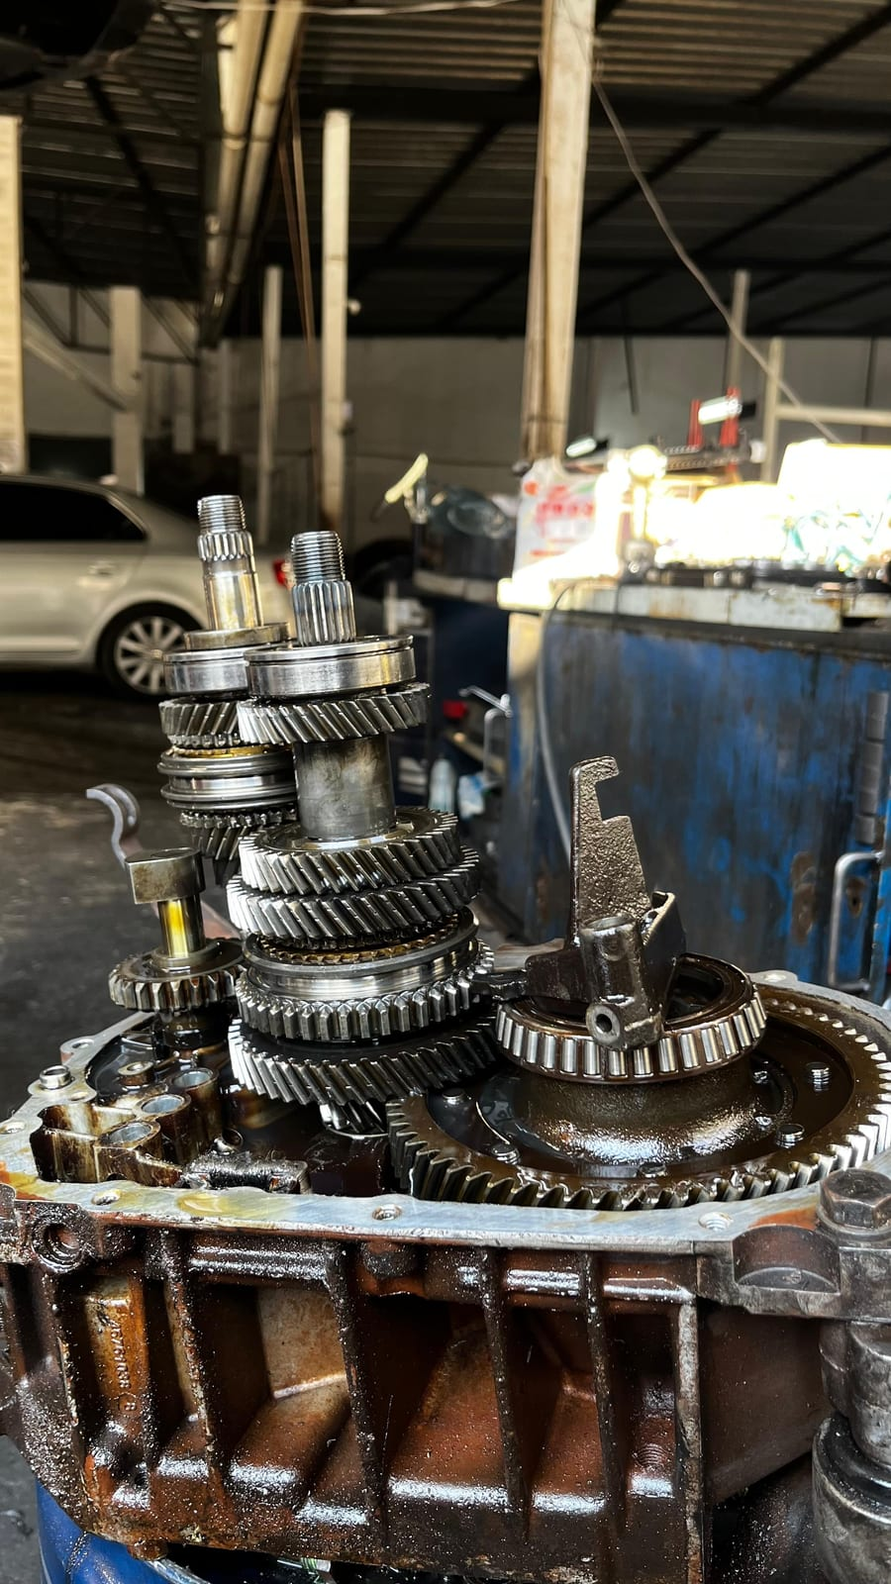
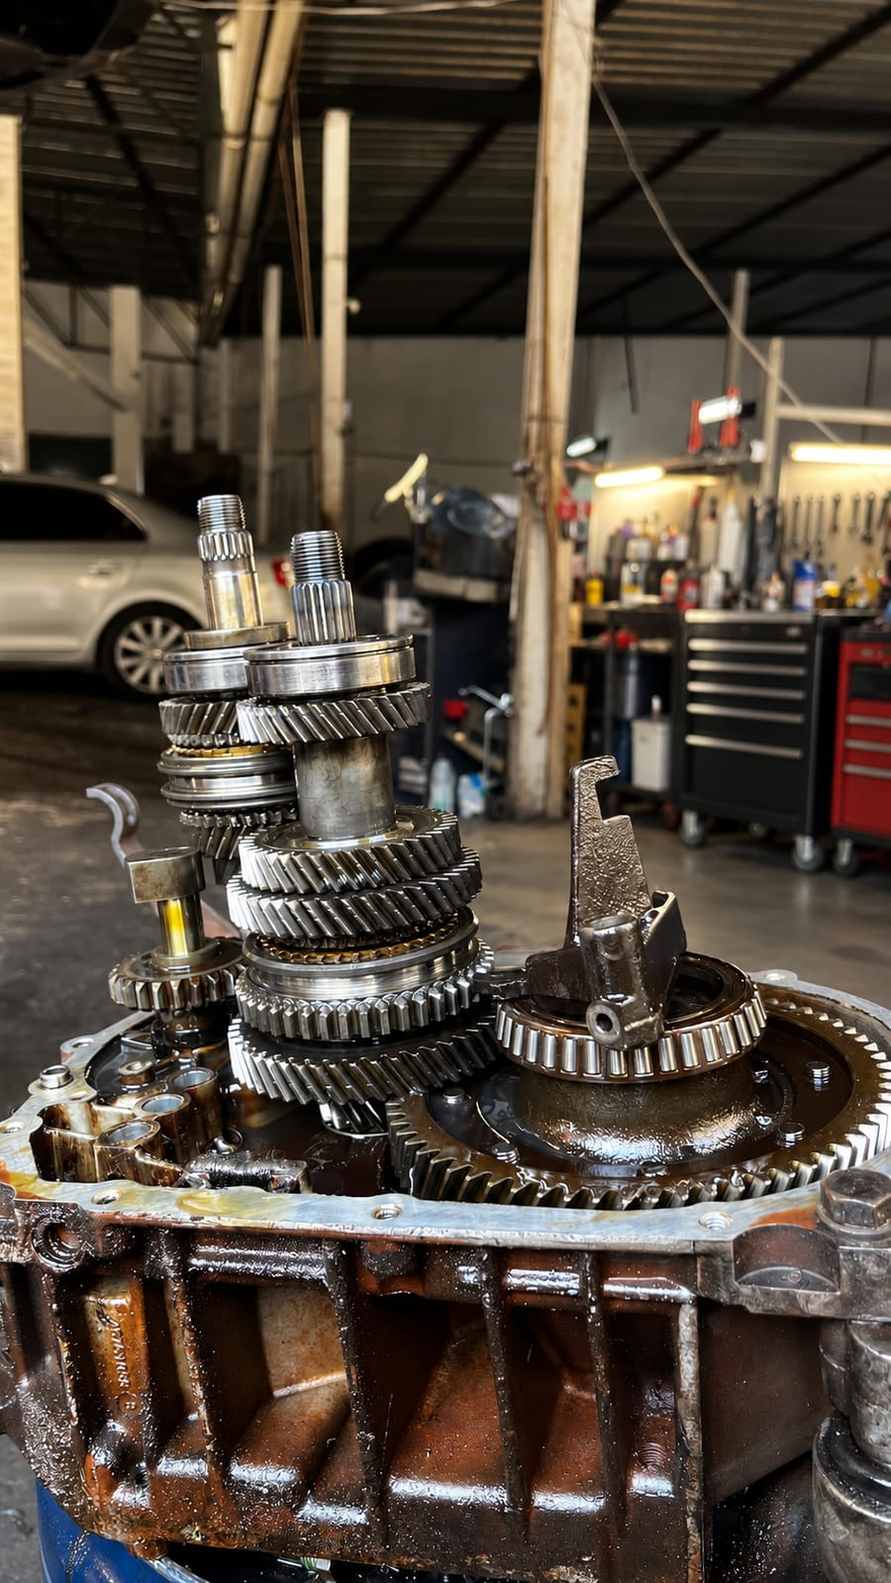
Volta foto das engrenagens no diagnóstico técnico
Restaura a foto de engrenagens de câmbio expostas (nova versão
enviada) no serviço de diagnóstico técnico, no lugar da foto de troca
de fluido usada na atualização anterior. Remove o arquivo órfão.

diff --git a/servicos/diagnostico.html b/servicos/diagnostico.html
@@ -1,2 +1,2 @@
-<!doctype html><html lang="pt-BR"><head><meta charset="utf-8"><meta name="viewport" content="width=device-width,initial-scale=1"><title>Diagnóstico de Embreagem e Câmbio em BH | Di Gomes</title><meta name="description" content="Diagnóstico técnico de embreagem, câmbio e transmissão em Belo Horizonte. Identificação da causa antes da indicação do reparo."><link rel="canonical" href="https://www.digomesembreagens.com.br/servicos/diagnostico.html"><link rel="icon" href="../favicon.svg"><link rel="stylesheet" href="../css/style.css?v=2"></head><body><div class="topbar"><div class="container"><span>Rua Juacema, 20 — Graça, Belo Horizonte</span><span>Segunda a sexta, 8h às 17h · (31) 3421-9200</span></div></div><header class="site-header"><div class="container header-inner"><a class="brand" href="../"><img src="../logo-certa.png" alt=""></a><nav class="main-nav" id="mainNav"><ul><li><a href="../servicos/" aria-current="page">Serviços</a></li><li><a href="../sobre.html">A oficina</a></li><li><a href="../blog/">Blog</a></li><li><a href="../contato.html">Contato</a></li></ul></nav><div class="header-cta"><a class="btn btn-yellow" href="https://wa.me/5531988634178">Pedir avaliação</a><button class="nav-toggle" id="navToggle" aria-label="Abrir menu"><span></span><span></span><span></span></button></div></div></header><main><section class="page-hero"><div class="container"><div class="breadcrumbs"><a href="../">Início</a> / <a href="../servicos/">Serviços</a> / Diagnóstico</div><p class="eyebrow">Antes de trocar peças</p><h1>Diagnóstico de embreagem e câmbio em BH</h1><p>Entender quando, onde e como o sintoma aparece é o primeiro passo para indicar o reparo certo.</p></div></section><section class="section"><div class="container article-layout"><article class="prose"><img class="article-image" src="../images/web/diagnostico-tecnico-troca-fluido.jpg" alt="Troca de fluido durante diagnóstico técnico de câmbio"><h2>Um sintoma, várias causas possíveis</h2><p>Uma marcha que não entra pode ter relação com embreagem, acionamento, trambulador ou componentes internos. Um tranco pode vir de coxim, adaptação, eletrônica ou desgaste mecânico. Trocar uma peça sem separar essas hipóteses custa tempo e pode não resolver.</p><h2>O que ajuda no diagnóstico</h2><ul><li>modelo, ano e quilometragem do veículo;</li><li>quando o sintoma começou e se está piorando;</li><li>se aparece com o carro frio, quente ou em subida;</li><li>serviços recentes e peças já substituídas;</li><li>avisos ou luzes exibidos no painel.</li></ul><p>A equipe combina essas informações com avaliação do carro, testes e inspeção. Se a desmontagem for necessária, isso é informado no atendimento.</p><h2>Orçamento depois de entender a causa</h2><p>A proposta é apresentar o que foi encontrado, quais peças ou operações são necessárias e o prazo estimado. Em falhas intermitentes, pode ser preciso reproduzir o comportamento antes de fechar a conclusão.</p><div class="faq"><details><summary>É possível diagnosticar só por mensagem?</summary><p>A mensagem ajuda a direcionar, mas não substitui a avaliação do veículo. Sintomas semelhantes podem ter causas diferentes.</p></details><details><summary>A luz do painel indica exatamente a peça?</summary><p>Não. O código aponta o sistema ou condição observada. Testes complementares confirmam a origem.</p></details></div></article><aside class="sidebar"><div class="sidebar-card"><h3>Prepare as informações</h3><p>Modelo, ano, quilometragem, sintoma e quando acontece.</p><a class="btn btn-whatsapp" href="https://wa.me/5531988634178?text=Olá!%20Quero%20agendar%20um%20diagnóstico.%20Modelo/ano:%20%20Sintoma:%20" target="_blank" rel="noopener">Agendar avaliação</a></div></aside></div></section></main><footer class="site-footer"><div class="container"><div class="legal"><span>© <span id="year"></span> Di Gomes Embreagens</span><a href="../servicos/">Todos os serviços</a></div></div></footer><a class="whatsapp-float" href="https://wa.me/5531988634178?text=Olá!%20Vim%20pelo%20site." target="_blank" rel="noopener" aria-label="Falar com a Di Gomes no WhatsApp"><svg viewBox="0 0 24 24" aria-hidden="true"><path fill="currentColor" d="M17.472 14.382c-.297-.149-1.758-.867-2.03-.967-.273-.099-.471-.148-.669.15-.198.297-.767.966-.94 1.164-.173.199-.347.223-.644.075-.297-.15-1.255-.463-2.39-1.475-.883-.788-1.48-1.761-1.653-2.059-.173-.297-.018-.458.13-.606.134-.133.298-.347.446-.52.149-.174.198-.298.298-.497.099-.198.05-.371-.025-.52-.075-.149-.669-1.612-.916-2.207-.242-.579-.487-.5-.669-.51-.173-.008-.371-.01-.57-.01-.198 0-.52.074-.792.372-.272.297-1.04 1.016-1.04 2.479 0 1.462 1.065 2.875 1.213 3.074.149.198 2.096 3.2 5.077 4.487.709.306 1.262.489 1.694.625.712.227 1.36.195 1.871.118.571-.085 1.758-.719 2.006-1.413.248-.694.248-1.289.173-1.413-.074-.124-.272-.198-.57-.347m-5.421 7.403h-.004a9.87 9.87 0 01-5.031-1.378l-.361-.214-3.741.981.998-3.648-.235-.374a9.86 9.86 0 01-1.51-5.26c.001-5.45 4.436-9.884 9.888-9.884 2.64 0 5.122 1.03 6.988 2.898a9.825 9.825 0 012.893 6.994c-.003 5.45-4.437 9.885-9.885 9.885m8.413-18.297A11.815 11.815 0 0012.05 0C5.495 0 .16 5.335.157 11.892c0 2.096.547 4.142 1.588 5.945L.057 24l6.305-1.654a11.87 11.87 0 005.68 1.448h.005c6.554 0 11.89-5.335 11.893-11.893a11.821 11.821 0 00-3.48-8.413"/></svg></a><script src="../js/script.js" defer></script></body></html>
+<!doctype html><html lang="pt-BR"><head><meta charset="utf-8"><meta name="viewport" content="width=device-width,initial-scale=1"><title>Diagnóstico de Embreagem e Câmbio em BH | Di Gomes</title><meta name="description" content="Diagnóstico técnico de embreagem, câmbio e transmissão em Belo Horizonte. Identificação da causa antes da indicação do reparo."><link rel="canonical" href="https://www.digomesembreagens.com.br/servicos/diagnostico.html"><link rel="icon" href="../favicon.svg"><link rel="stylesheet" href="../css/style.css?v=2"></head><body><div class="topbar"><div class="container"><span>Rua Juacema, 20 — Graça, Belo Horizonte</span><span>Segunda a sexta, 8h às 17h · (31) 3421-9200</span></div></div><header class="site-header"><div class="container header-inner"><a class="brand" href="../"><img src="../logo-certa.png" alt=""></a><nav class="main-nav" id="mainNav"><ul><li><a href="../servicos/" aria-current="page">Serviços</a></li><li><a href="../sobre.html">A oficina</a></li><li><a href="../blog/">Blog</a></li><li><a href="../contato.html">Contato</a></li></ul></nav><div class="header-cta"><a class="btn btn-yellow" href="https://wa.me/5531988634178">Pedir avaliação</a><button class="nav-toggle" id="navToggle" aria-label="Abrir menu"><span></span><span></span><span></span></button></div></div></header><main><section class="page-hero"><div class="container"><div class="breadcrumbs"><a href="../">Início</a> / <a href="../servicos/">Serviços</a> / Diagnóstico</div><p class="eyebrow">Antes de trocar peças</p><h1>Diagnóstico de embreagem e câmbio em BH</h1><p>Entender quando, onde e como o sintoma aparece é o primeiro passo para indicar o reparo certo.</p></div></section><section class="section"><div class="container article-layout"><article class="prose"><img class="article-image" src="../images/web/diagnostico-tecnico-engrenagens.jpg" alt="Engrenagens de câmbio expostas durante diagnóstico técnico"><h2>Um sintoma, várias causas possíveis</h2><p>Uma marcha que não entra pode ter relação com embreagem, acionamento, trambulador ou componentes internos. Um tranco pode vir de coxim, adaptação, eletrônica ou desgaste mecânico. Trocar uma peça sem separar essas hipóteses custa tempo e pode não resolver.</p><h2>O que ajuda no diagnóstico</h2><ul><li>modelo, ano e quilometragem do veículo;</li><li>quando o sintoma começou e se está piorando;</li><li>se aparece com o carro frio, quente ou em subida;</li><li>serviços recentes e peças já substituídas;</li><li>avisos ou luzes exibidos no painel.</li></ul><p>A equipe combina essas informações com avaliação do carro, testes e inspeção. Se a desmontagem for necessária, isso é informado no atendimento.</p><h2>Orçamento depois de entender a causa</h2><p>A proposta é apresentar o que foi encontrado, quais peças ou operações são necessárias e o prazo estimado. Em falhas intermitentes, pode ser preciso reproduzir o comportamento antes de fechar a conclusão.</p><div class="faq"><details><summary>É possível diagnosticar só por mensagem?</summary><p>A mensagem ajuda a direcionar, mas não substitui a avaliação do veículo. Sintomas semelhantes podem ter causas diferentes.</p></details><details><summary>A luz do painel indica exatamente a peça?</summary><p>Não. O código aponta o sistema ou condição observada. Testes complementares confirmam a origem.</p></details></div></article><aside class="sidebar"><div class="sidebar-card"><h3>Prepare as informações</h3><p>Modelo, ano, quilometragem, sintoma e quando acontece.</p><a class="btn btn-whatsapp" href="https://wa.me/5531988634178?text=Olá!%20Quero%20agendar%20um%20diagnóstico.%20Modelo/ano:%20%20Sintoma:%20" target="_blank" rel="noopener">Agendar avaliação</a></div></aside></div></section></main><footer class="site-footer"><div class="container"><div class="legal"><span>© <span id="year"></span> Di Gomes Embreagens</span><a href="../servicos/">Todos os serviços</a></div></div></footer><a class="whatsapp-float" href="https://wa.me/5531988634178?text=Olá!%20Vim%20pelo%20site." target="_blank" rel="noopener" aria-label="Falar com a Di Gomes no WhatsApp"><svg viewBox="0 0 24 24" aria-hidden="true"><path fill="currentColor" d="M17.472 14.382c-.297-.149-1.758-.867-2.03-.967-.273-.099-.471-.148-.669.15-.198.297-.767.966-.94 1.164-.173.199-.347.223-.644.075-.297-.15-1.255-.463-2.39-1.475-.883-.788-1.48-1.761-1.653-2.059-.173-.297-.018-.458.13-.606.134-.133.298-.347.446-.52.149-.174.198-.298.298-.497.099-.198.05-.371-.025-.52-.075-.149-.669-1.612-.916-2.207-.242-.579-.487-.5-.669-.51-.173-.008-.371-.01-.57-.01-.198 0-.52.074-.792.372-.272.297-1.04 1.016-1.04 2.479 0 1.462 1.065 2.875 1.213 3.074.149.198 2.096 3.2 5.077 4.487.709.306 1.262.489 1.694.625.712.227 1.36.195 1.871.118.571-.085 1.758-.719 2.006-1.413.248-.694.248-1.289.173-1.413-.074-.124-.272-.198-.57-.347m-5.421 7.403h-.004a9.87 9.87 0 01-5.031-1.378l-.361-.214-3.741.981.998-3.648-.235-.374a9.86 9.86 0 01-1.51-5.26c.001-5.45 4.436-9.884 9.888-9.884 2.64 0 5.122 1.03 6.988 2.898a9.825 9.825 0 012.893 6.994c-.003 5.45-4.437 9.885-9.885 9.885m8.413-18.297A11.815 11.815 0 0012.05 0C5.495 0 .16 5.335.157 11.892c0 2.096.547 4.142 1.588 5.945L.057 24l6.305-1.654a11.87 11.87 0 005.68 1.448h.005c6.554 0 11.89-5.335 11.893-11.893a11.821 11.821 0 00-3.48-8.413"/></svg></a><script src="../js/script.js" defer></script></body></html>
 

diff --git a/servicos/index.html b/servicos/index.html
@@ -2,7 +2,7 @@
 <a class="skip-link" href="#conteudo">Pular para o conteúdo</a><div class="topbar"><div class="container"><span>Rua Juacema, 20 — Graça, Belo Horizonte</span><span>Segunda a sexta, 8h às 17h · <a href="tel:+553134219200">(31) 3421-9200</a></span></div></div>
 <header class="site-header"><div class="container header-inner"><a class="brand" href="../"><img src="../logo-certa.png" alt="" width="200" height="200"></a><nav class="main-nav" id="mainNav" aria-label="Navegação principal"><ul><li><a href="../servicos/" aria-current="page">Serviços</a></li><li><a href="../sobre.html">A oficina</a></li><li><a href="../blog/">Blog</a></li><li><a href="../contato.html">Contato</a></li></ul></nav><div class="header-cta"><a class="btn btn-yellow" href="https://wa.me/5531988634178" target="_blank" rel="noopener">Pedir avaliação</a><button class="nav-toggle" id="navToggle" aria-label="Abrir menu" aria-expanded="false"><span></span><span></span><span></span></button></div></div></header>
 <main id="conteudo"><section class="page-hero"><div class="container"><div class="breadcrumbs"><a href="../">Início</a> / Serviços</div><p class="eyebrow">Manutenção automotiva em BH</p><h1>Serviços de embreagem e transmissão</h1><p>O mesmo sintoma pode ter causas diferentes. Por isso, cada atendimento começa com uma avaliação do conjunto antes da indicação de peças ou reparos.</p></div></section>
-<section class="section"><div class="container"><div class="service-index"><a class="service-card" href="../servicos/troca-de-embreagem.html"><span class="service-thumb"><img src="../images/web/kit-embreagem-luk-nova-md.webp" alt="Kit de embreagem LUK"></span><span class="num">01</span><h3>Troca e diagnóstico de embreagem</h3><p>Kit, sistema de acionamento, volante e componentes relacionados.</p><span class="text-link">Detalhes do serviço</span></a><a class="service-card" href="../servicos/cambio-automatizado.html"><span class="service-thumb"><img src="../images/web/cambio-automatizado-dualogic.jpg" alt="Seletor de câmbio automatizado Dualogic"></span><span class="num">02</span><h3>Câmbio automatizado</h3><p>Falhas, atuadores, trancos e manutenção de sistemas automatizados.</p><span class="text-link">Detalhes do serviço</span></a><a class="service-card" href="../servicos/cambio-manual.html"><span class="service-thumb"><img src="../images/web/cambio-manual-alavanca.jpg" alt="Alavanca de câmbio manual de 5 marchas"></span><span class="num">03</span><h3>Câmbio manual</h3><p>Dificuldade de engate, ruídos, rolamentos, sincronizadores e vazamentos.</p><span class="text-link">Detalhes do serviço</span></a><a class="service-card" href="../servicos/cambio-automatico.html"><span class="service-thumb"><img src="../images/web/cambio-automatico-seletor.jpg" alt="Seletor de câmbio automático P R N D M"></span><span class="num">04</span><h3>Câmbio automático</h3><p>Avaliação da transmissão e troca de fluido conforme especificação.</p><span class="text-link">Detalhes do serviço</span></a><a class="service-card" href="../servicos/freios-e-suspensao.html"><span class="service-thumb"><img src="../images/web/oficina-elevadores-veiculos.webp" alt="Veículos em elevadores na oficina Di Gomes"></span><span class="num">05</span><h3>Freios e suspensão</h3><p>Inspeção e substituição de componentes ligados ao controle do veículo.</p><span class="text-link">Detalhes do serviço</span></a><a class="service-card" href="../servicos/diagnostico.html"><span class="service-thumb"><img src="../images/web/diagnostico-tecnico-troca-fluido.jpg" alt="Troca de fluido durante diagnóstico técnico de câmbio"></span><span class="num">06</span><h3>Diagnóstico técnico</h3><p>Leitura de sintomas, testes e identificação da origem do problema.</p><span class="text-link">Detalhes do serviço</span></a></div></div></section>
+<section class="section"><div class="container"><div class="service-index"><a class="service-card" href="../servicos/troca-de-embreagem.html"><span class="service-thumb"><img src="../images/web/kit-embreagem-luk-nova-md.webp" alt="Kit de embreagem LUK"></span><span class="num">01</span><h3>Troca e diagnóstico de embreagem</h3><p>Kit, sistema de acionamento, volante e componentes relacionados.</p><span class="text-link">Detalhes do serviço</span></a><a class="service-card" href="../servicos/cambio-automatizado.html"><span class="service-thumb"><img src="../images/web/cambio-automatizado-dualogic.jpg" alt="Seletor de câmbio automatizado Dualogic"></span><span class="num">02</span><h3>Câmbio automatizado</h3><p>Falhas, atuadores, trancos e manutenção de sistemas automatizados.</p><span class="text-link">Detalhes do serviço</span></a><a class="service-card" href="../servicos/cambio-manual.html"><span class="service-thumb"><img src="../images/web/cambio-manual-alavanca.jpg" alt="Alavanca de câmbio manual de 5 marchas"></span><span class="num">03</span><h3>Câmbio manual</h3><p>Dificuldade de engate, ruídos, rolamentos, sincronizadores e vazamentos.</p><span class="text-link">Detalhes do serviço</span></a><a class="service-card" href="../servicos/cambio-automatico.html"><span class="service-thumb"><img src="../images/web/cambio-automatico-seletor.jpg" alt="Seletor de câmbio automático P R N D M"></span><span class="num">04</span><h3>Câmbio automático</h3><p>Avaliação da transmissão e troca de fluido conforme especificação.</p><span class="text-link">Detalhes do serviço</span></a><a class="service-card" href="../servicos/freios-e-suspensao.html"><span class="service-thumb"><img src="../images/web/oficina-elevadores-veiculos.webp" alt="Veículos em elevadores na oficina Di Gomes"></span><span class="num">05</span><h3>Freios e suspensão</h3><p>Inspeção e substituição de componentes ligados ao controle do veículo.</p><span class="text-link">Detalhes do serviço</span></a><a class="service-card" href="../servicos/diagnostico.html"><span class="service-thumb"><img src="../images/web/diagnostico-tecnico-engrenagens.jpg" alt="Engrenagens de câmbio expostas durante diagnóstico técnico"></span><span class="num">06</span><h3>Diagnóstico técnico</h3><p>Leitura de sintomas, testes e identificação da origem do problema.</p><span class="text-link">Detalhes do serviço</span></a></div></div></section>
 <section class="cta-band"><div class="container"><div><h2>Não sabe qual serviço procura?</h2><p>Descreva o sintoma. A equipe orienta o próximo passo.</p></div><a class="btn btn-dark" href="https://wa.me/5531988634178?text=Olá!%20Meu%20carro%20está%20com%20o%20seguinte%20sintoma:%20" target="_blank" rel="noopener">Descrever o problema</a></div></section></main>
 <footer class="site-footer"><div class="container"><div class="footer-grid"><div class="footer-brand"><a class="brand" href="../"><img src="../logo-certa.png" alt="Di Gomes Embreagens"></a><p>Oficina especializada em embreagem, câmbio e transmissão em Belo Horizonte.</p></div><div><h2 class="footer-title">Navegue</h2><div class="footer-links"><a href="../servicos/">Serviços</a><a href="../sobre.html">A oficina</a><a href="../blog/">Blog</a></div></div><div><h2 class="footer-title">Contato</h2><div class="footer-links"><a href="tel:+553134219200">(31) 3421-9200</a><a href="https://www.instagram.com/digomesembreagens/">Instagram</a></div></div></div><div class="legal"><span>© <span id="year"></span> Di Gomes Embreagens</span><span>Rua Juacema, 20 — Graça, BH</span></div></div></footer><a class="whatsapp-float" href="https://wa.me/5531988634178?text=Olá!%20Vim%20pelo%20site." target="_blank" rel="noopener" aria-label="Falar com a Di Gomes no WhatsApp"><svg viewBox="0 0 24 24" aria-hidden="true"><path fill="currentColor" d="M17.472 14.382c-.297-.149-1.758-.867-2.03-.967-.273-.099-.471-.148-.669.15-.198.297-.767.966-.94 1.164-.173.199-.347.223-.644.075-.297-.15-1.255-.463-2.39-1.475-.883-.788-1.48-1.761-1.653-2.059-.173-.297-.018-.458.13-.606.134-.133.298-.347.446-.52.149-.174.198-.298.298-.497.099-.198.05-.371-.025-.52-.075-.149-.669-1.612-.916-2.207-.242-.579-.487-.5-.669-.51-.173-.008-.371-.01-.57-.01-.198 0-.52.074-.792.372-.272.297-1.04 1.016-1.04 2.479 0 1.462 1.065 2.875 1.213 3.074.149.198 2.096 3.2 5.077 4.487.709.306 1.262.489 1.694.625.712.227 1.36.195 1.871.118.571-.085 1.758-.719 2.006-1.413.248-.694.248-1.289.173-1.413-.074-.124-.272-.198-.57-.347m-5.421 7.403h-.004a9.87 9.87 0 01-5.031-1.378l-.361-.214-3.741.981.998-3.648-.235-.374a9.86 9.86 0 01-1.51-5.26c.001-5.45 4.436-9.884 9.888-9.884 2.64 0 5.122 1.03 6.988 2.898a9.825 9.825 0 012.893 6.994c-.003 5.45-4.437 9.885-9.885 9.885m8.413-18.297A11.815 11.815 0 0012.05 0C5.495 0 .16 5.335.157 11.892c0 2.096.547 4.142 1.588 5.945L.057 24l6.305-1.654a11.87 11.87 0 005.68 1.448h.005c6.554 0 11.89-5.335 11.893-11.893a11.821 11.821 0 00-3.48-8.413"/></svg></a><script src="../js/script.js" defer></script></body></html>
 

diff --git a/index.html b/index.html
@@ -42,7 +42,7 @@
     <a class="service-card" href="servicos/cambio-manual.html"><span class="service-thumb"><img src="images/web/cambio-manual-alavanca.jpg" alt="Alavanca de câmbio manual de 5 marchas"></span><span class="num">03</span><h3>Câmbio manual</h3><p>Revisão de engrenagens, rolamentos, sincronizadores, vazamentos e dificuldade de engate.</p><span class="text-link">Ver serviço</span></a>
     <a class="service-card" href="servicos/cambio-automatico.html"><span class="service-thumb"><img src="images/web/cambio-automatico-seletor.jpg" alt="Seletor de câmbio automático P R N D M"></span><span class="num">04</span><h3>Câmbio automático</h3><p>Troca de fluido e manutenção de transmissão automática conforme a necessidade do veículo.</p><span class="text-link">Ver serviço</span></a>
     <a class="service-card" href="servicos/freios-e-suspensao.html"><span class="service-thumb"><img src="images/web/oficina-elevadores-veiculos.webp" alt="Veículos em elevadores na oficina Di Gomes"></span><span class="num">05</span><h3>Freios e suspensão</h3><p>Inspeção de pastilhas, discos, componentes de suspensão e itens ligados à segurança.</p><span class="text-link">Ver serviço</span></a>
-    <a class="service-card" href="servicos/diagnostico.html"><span class="service-thumb"><img src="images/web/diagnostico-tecnico-troca-fluido.jpg" alt="Troca de fluido durante diagnóstico técnico de câmbio"></span><span class="num">06</span><h3>Diagnóstico técnico</h3><p>Avaliação de sintomas, testes e desmontagem somente quando necessária para fechar o diagnóstico.</p><span class="text-link">Ver serviço</span></a>
+    <a class="service-card" href="servicos/diagnostico.html"><span class="service-thumb"><img src="images/web/diagnostico-tecnico-engrenagens.jpg" alt="Engrenagens de câmbio expostas durante diagnóstico técnico"></span><span class="num">06</span><h3>Diagnóstico técnico</h3><p>Avaliação de sintomas, testes e desmontagem somente quando necessária para fechar o diagnóstico.</p><span class="text-link">Ver serviço</span></a>
   </div></div></section>
   <section class="split"><div class="split-media"><img src="images/web/fachada-aberta-loja.jpg" alt="Fachada da oficina Di Gomes Embreagens aberta, Rua Juacema, bairro Graça" loading="lazy"></div><div class="split-copy"><p class="eyebrow">A oficina</p><h2>Mais de uma década lidando com transmissão</h2><p>A Di Gomes começou em 2014 e cresceu fazendo o trabalho que muita oficina evita: descobrir a origem de falhas em embreagens e câmbios.</p><ul class="checklist"><li>Orçamento apresentado antes do reparo</li><li>Peças de marcas reconhecidas e aplicação correta</li><li>Atendimento para carros nacionais e importados</li><li>Pagamento por cartão ou Pix</li></ul><a class="btn btn-yellow" href="sobre.html">Conheça a Di Gomes</a></div></section>
   <section class="section"><div class="container"><div class="section-head"><div><p class="kicker">Trabalho de verdade</p><h2>Por dentro da oficina</h2></div><p>Todas as imagens abaixo são da equipe, das peças e da rotina real de manutenção na unidade da Rua Juacema.</p></div><div class="gallery"><figure><img src="images/web/oficina-carros-capo-aberto.webp" alt="Veículos com capô aberto para diagnóstico na oficina Di Gomes" loading="lazy"><figcaption>Diagnóstico em andamento</figcaption></figure><figure><img src="images/web/tecnico-manutencao-embreagem-graca-bh-lg.jpg" alt="Conjunto de embreagem instalado" loading="lazy"><figcaption>Conjunto instalado no veículo</figcaption></figure><figure><img src="images/web/kit-embreagem-luk-nova-lg.jpg" alt="Kit de embreagem LUK novo" loading="lazy"><figcaption>Kit LUK para instalação</figcaption></figure><figure><img src="images/web/disco-plato-embreagem-original-lg.jpg" alt="Disco e platô de embreagem Valeo" loading="lazy"><figcaption>Disco e platô Valeo</figcaption></figure><figure><img src="images/web/estoque-platos-embreagem-bh-lg.jpg" alt="Estoque de platôs de embreagem" loading="lazy"><figcaption>Peças na área técnica</figcaption></figure><figure><img src="images/web/pecas-cambio-desmontado-revisao-lg.jpg" alt="Câmbio automático desmontado para revisão" loading="lazy"><figcaption>Transmissão aberta para revisão</figcaption></figure><figure><img src="images/web/oficina-elevadores-veiculos.webp" alt="Veículos suspensos em elevadores na oficina Di Gomes" loading="lazy"><figcaption>Veículos em manutenção</figcaption></figure><figure><img src="images/web/fachada-lateral-graca.webp" alt="Fachada lateral da oficina Di Gomes Embreagens na Rua Juacema, bairro Graça" loading="lazy"><figcaption>Fachada da unidade Rua Juacema</figcaption></figure><figure><img src="images/web/recepcao-oficina-di-gomes-embreagens-lg.jpg" alt="Recepção da Di Gomes Embreagens" loading="lazy"><figcaption>Recepção da oficina</figcaption></figure><figure><img src="images/web/kit-embreagem-valeo-nova-lg.jpg" alt="Kit de embreagem Valeo novo" loading="lazy"><figcaption>Kit Valeo para instalação</figcaption></figure></div></div></section>
